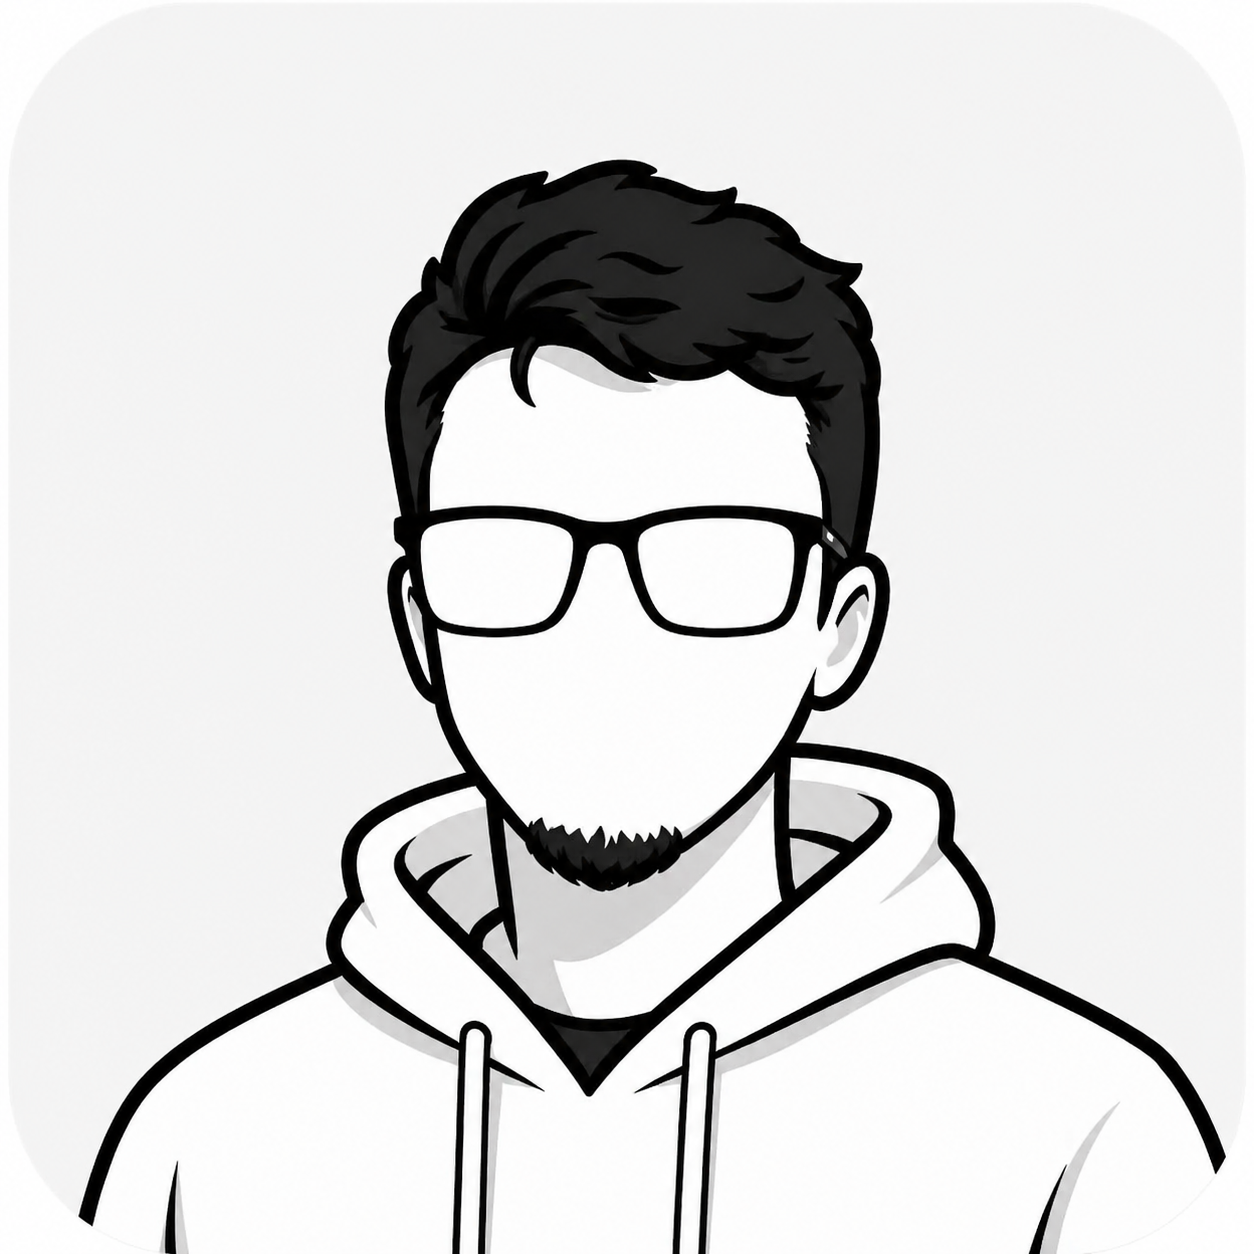
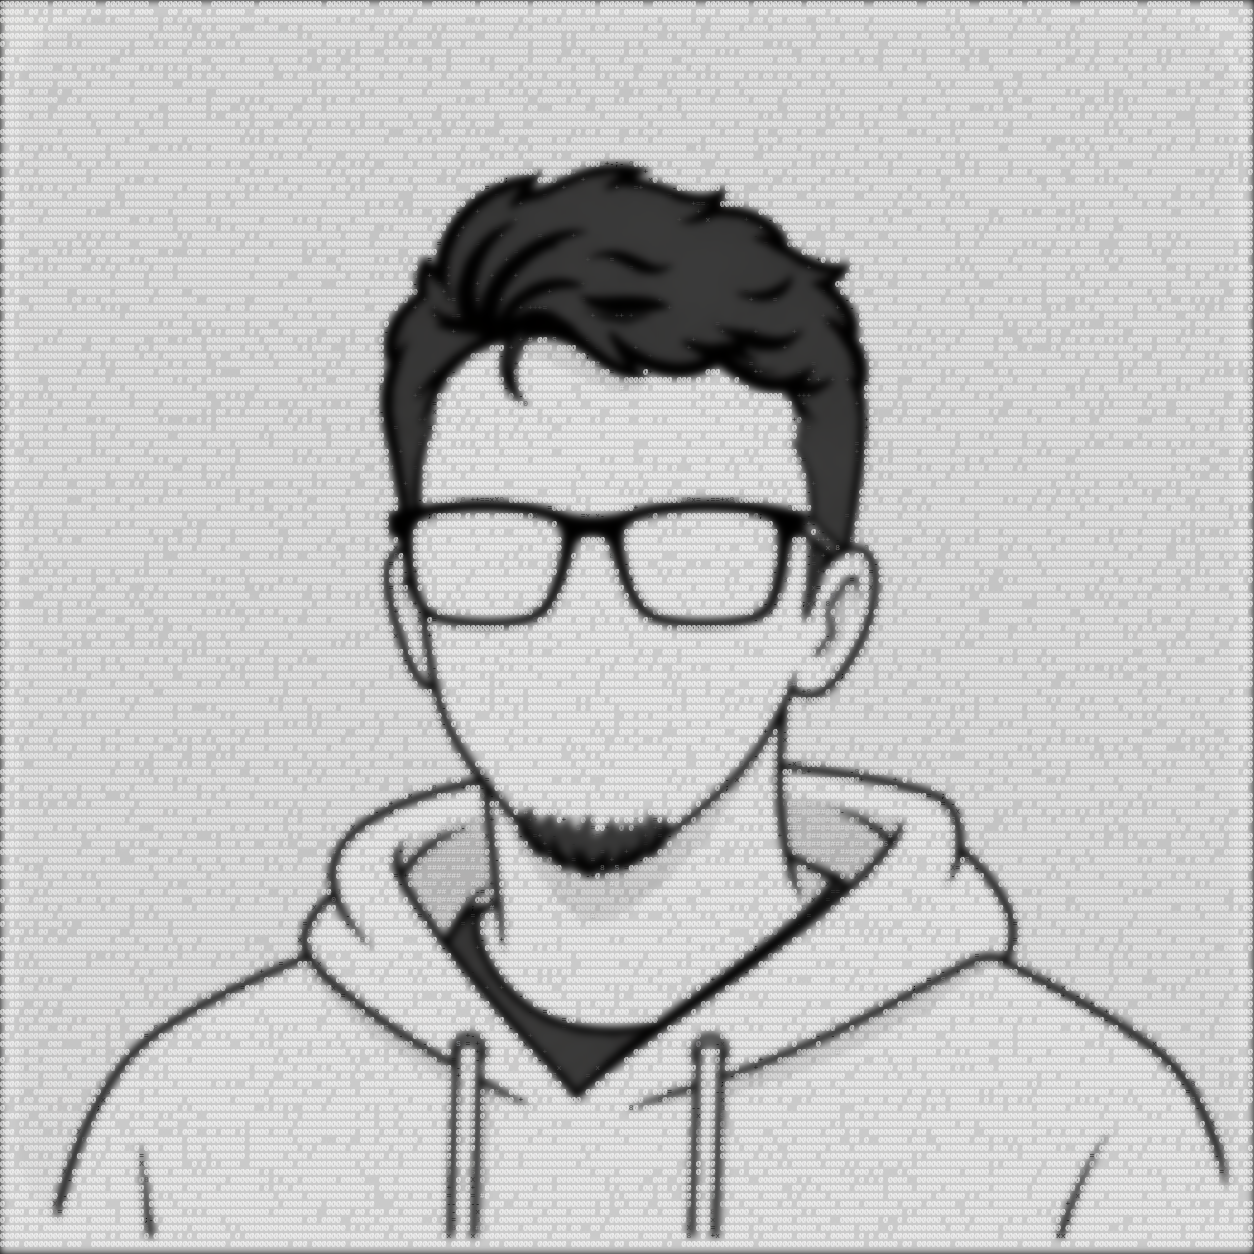
Switch hero user image to JPG
Add a JPEG version of the hero user image (public/images/hero-sec/user-img.jpg) and update the HeroSection component to reference /images/hero-sec/user-img.jpg. The existing PNG asset (public/images/hero-sec/user-img.png) was also updated (binary change).

diff --git a/src/app/components/home/hero-section/index.tsx b/src/app/components/home/hero-section/index.tsx
@@ -101,7 +101,7 @@ const HeroSection = () => {
               <div className="absolute top-0 transform -translate-y-1/2">
                 <div className="relative w-[145px] h-[145px]">
                   <Image
-                    src="/images/hero-sec/user-img.png"
+                    src="/images/hero-sec/user-img.jpg"
                     alt="Abdellatif Laghjaj"
                     width={145}
                     height={145}